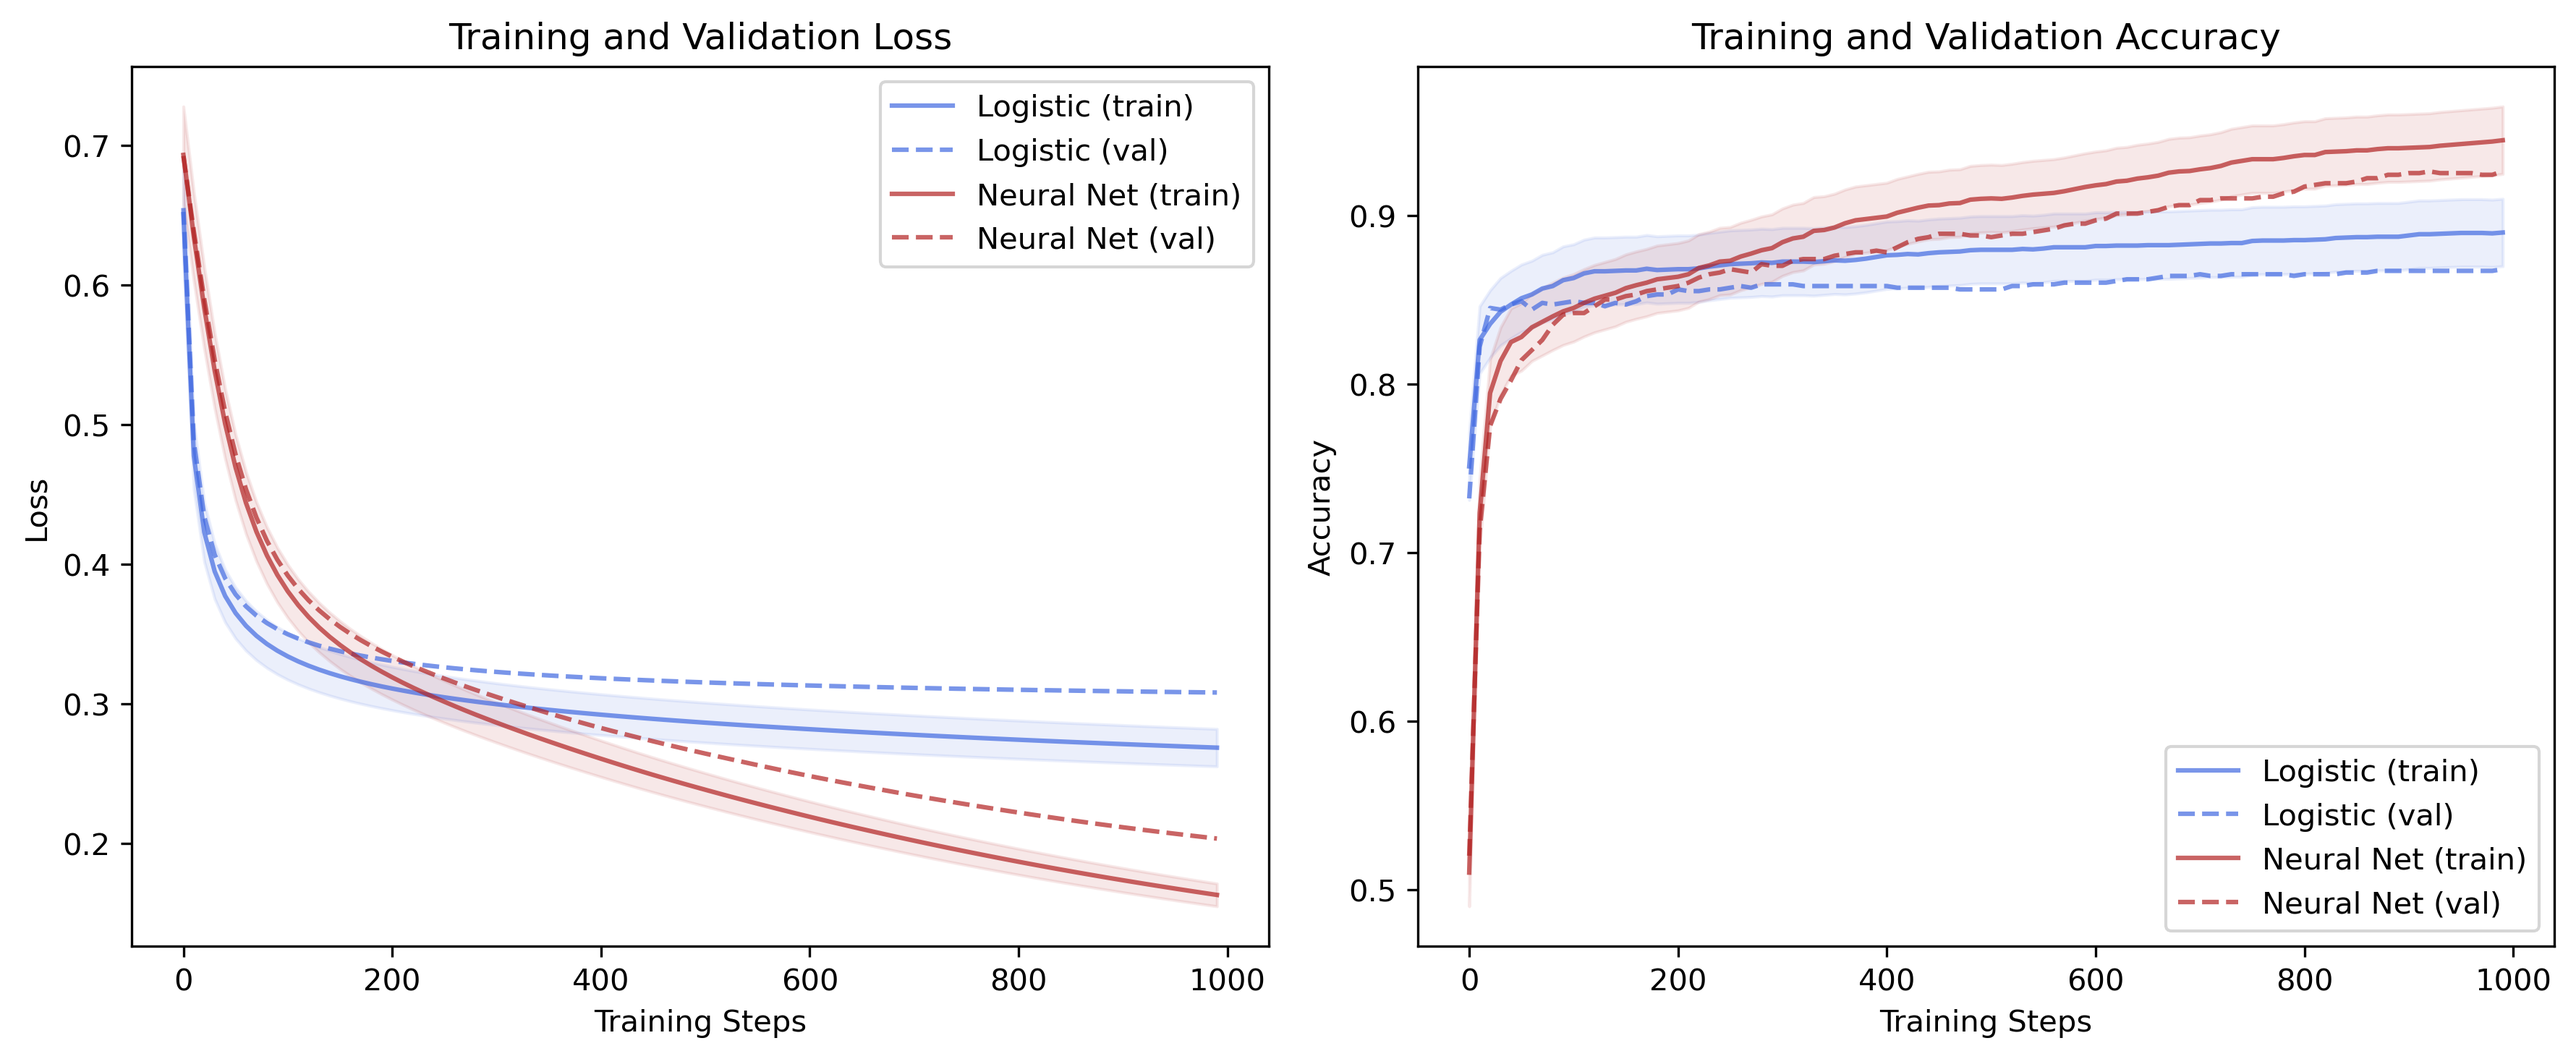
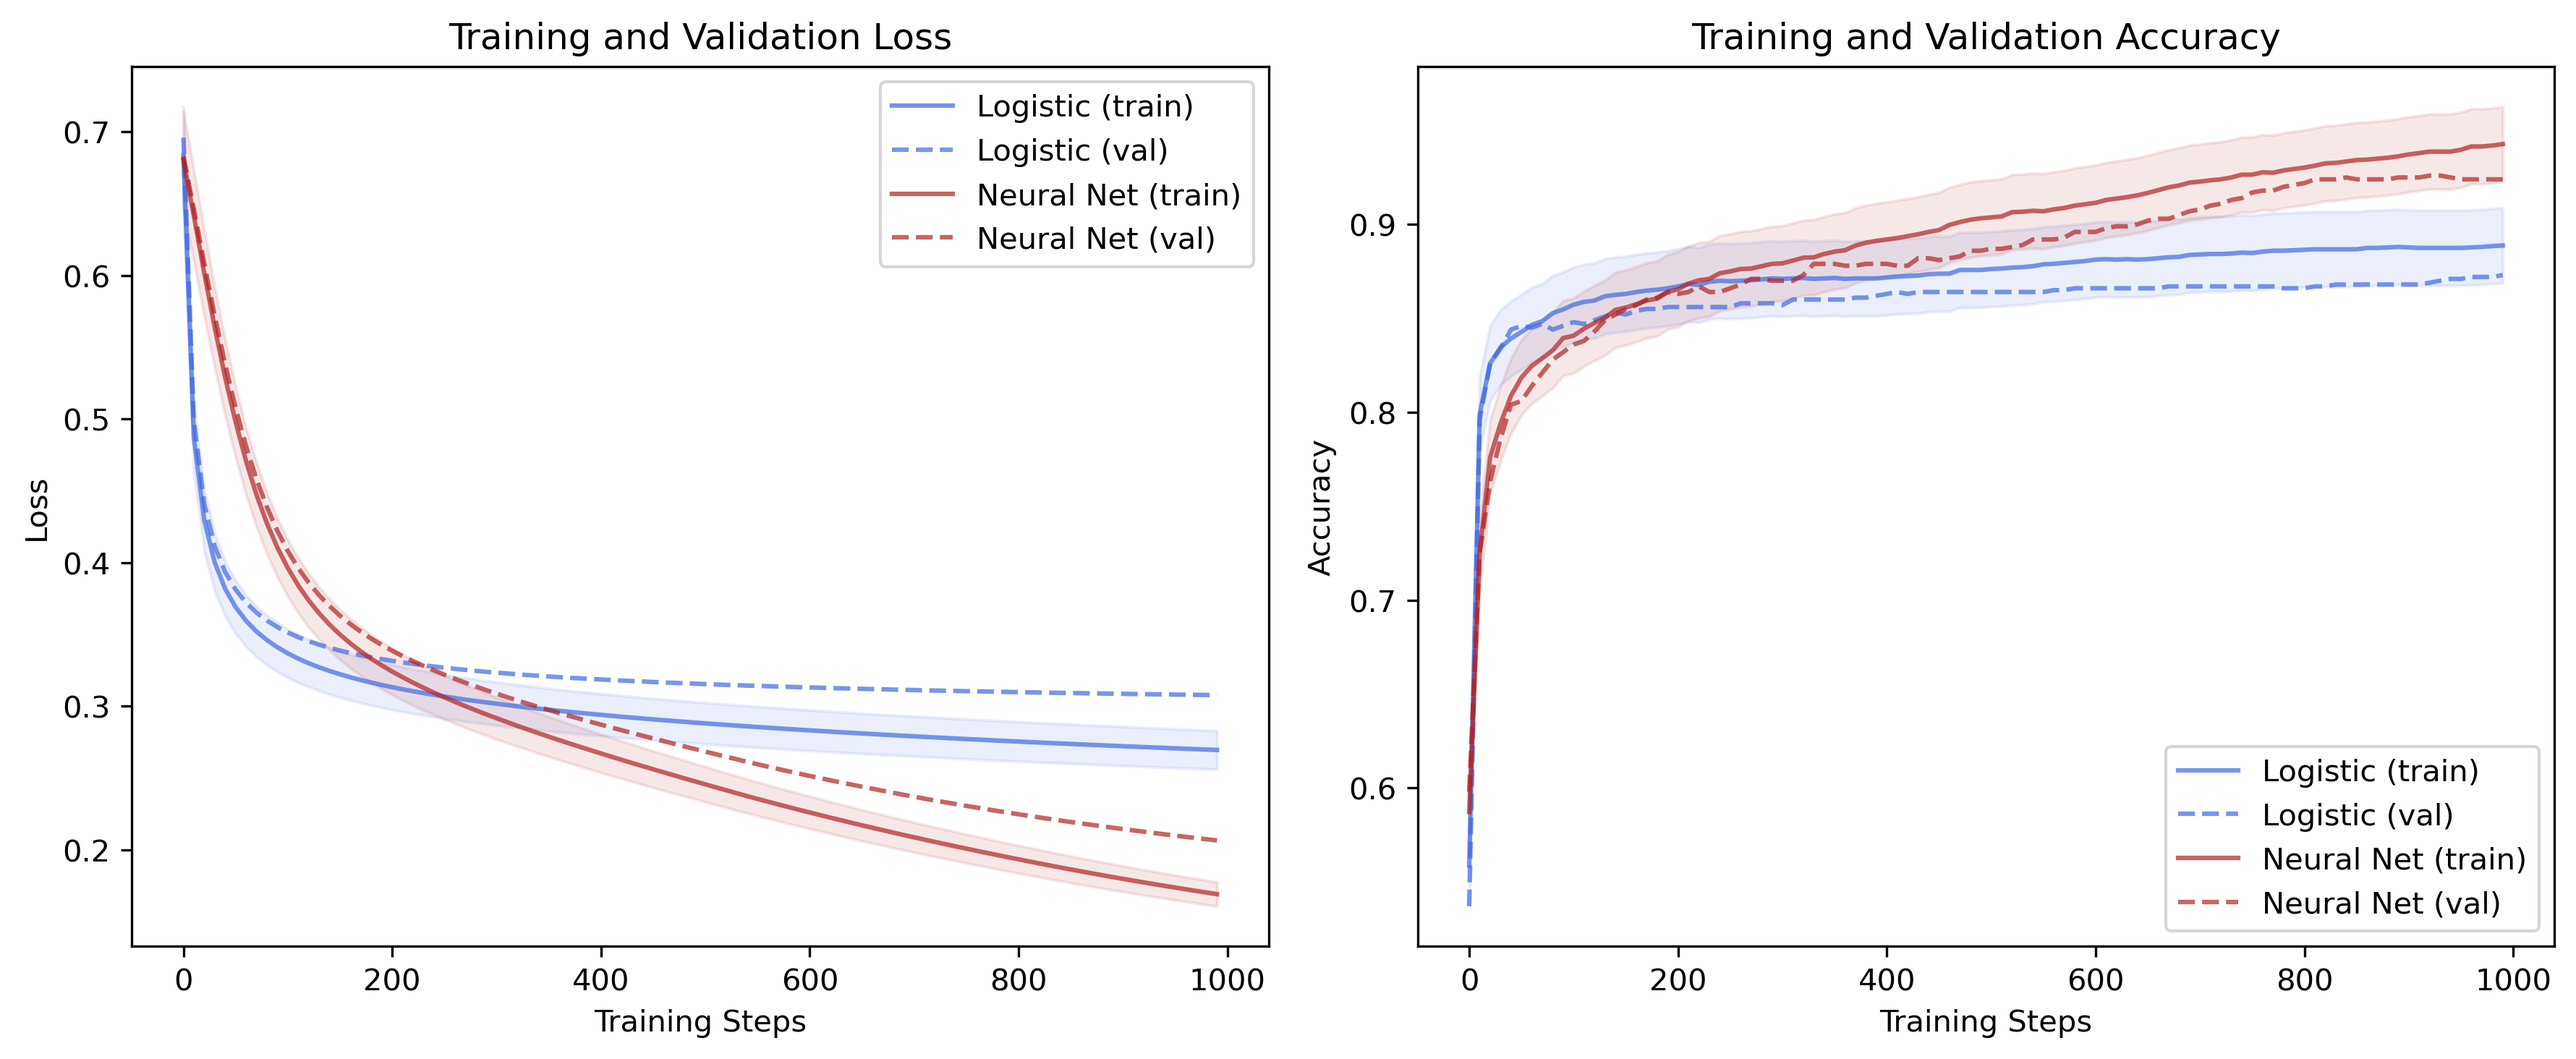
fix(notes): Update test accuracy values for neural network and logistic regression comparison

diff --git a/section/4/notes.md b/section/4/notes.md
@@ -487,7 +487,7 @@ def train_model(model, X_train, y_train, X_val, y_val, alpha=0.01, n_steps=1000)
                 param.grad.zero_()
 ```
 
-The neural network achieves 92.60% test accuracy versus logistic regression's 86.80%. This gap results from the neural network's ability to learn nonlinear decision boundaries.
+The neural network achieves 92.40% test accuracy versus logistic regression's 87.30%. This gap results from the neural network's ability to learn nonlinear decision boundaries.
 
 ![MNIST Training Curves](figures/mnist_training_curves.png)
 *Training curves for logistic regression (blue) and neural network (red). The neural network learns faster and reaches higher accuracy.*
